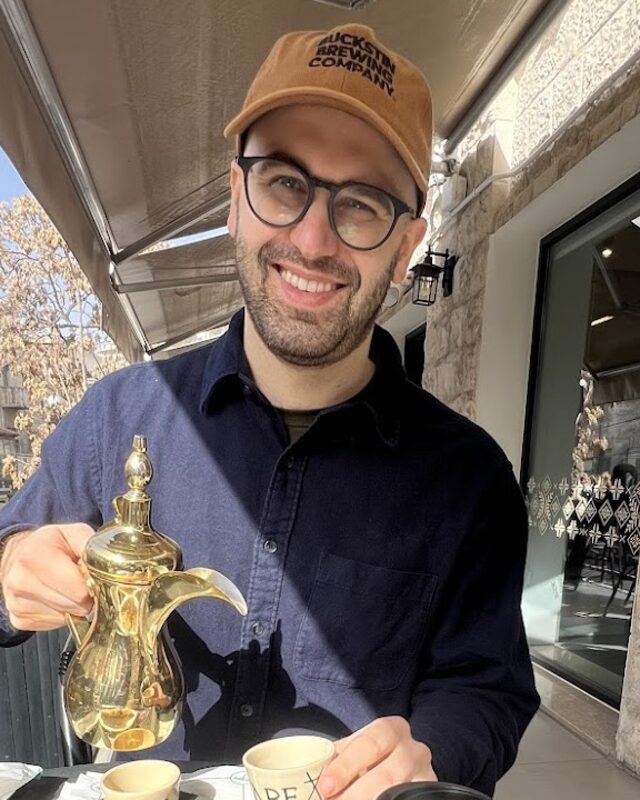
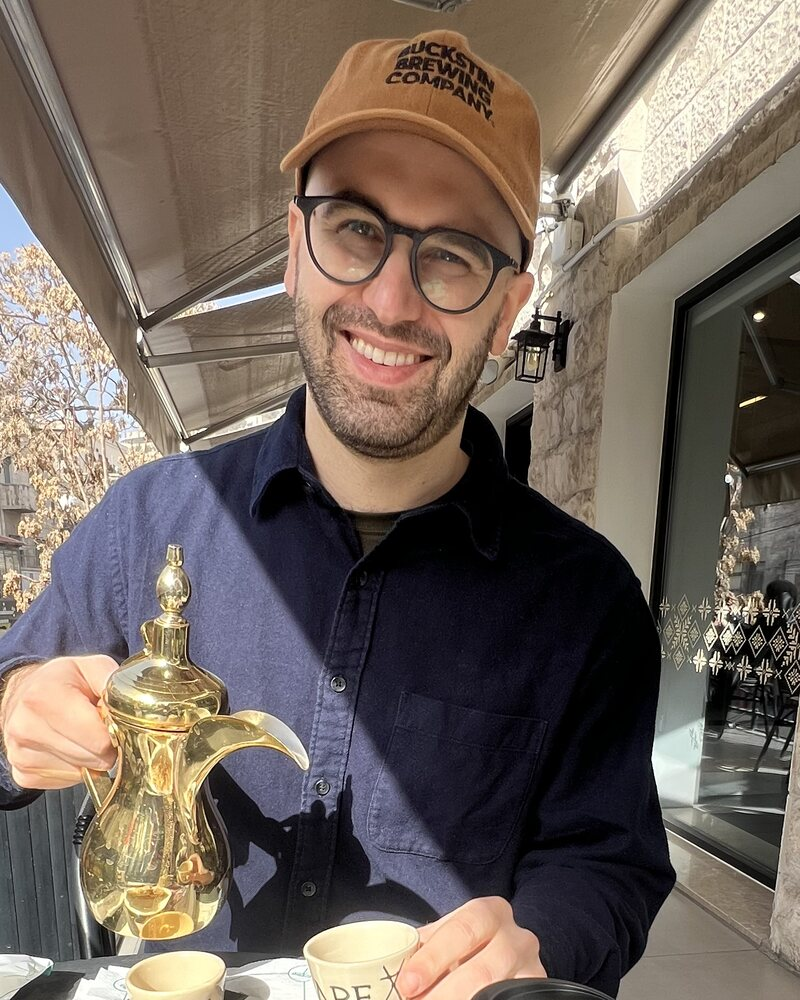
Move About link to the footer; portrait from the original photo
Evan preferred the bio beside Colophon and AI & Authorship in the shared
footer rather than as a front-page section row. Portrait re-cropped from
the original HEIC at 800x1000 with metadata stripped.

Claude-Session: https://claude.ai/code/session_0146eUg9wUdKNCELpyc4T6tb

diff --git a/HANDOFF.md b/HANDOFF.md
@@ -19,8 +19,10 @@ Last updated 2026-09-12 by Claude Fable 5.1.
 - `/about` is live with Evan's three paragraphs (verbatim from his Google Doc
   draft after three review passes), a `Written by Evan` byline, `-Evan` signoff,
   hyperlinks to his papers and the site's projects, and a portrait cropped from
-  a photo in Amman, Jordan (`public/about/evan-amman.jpg`). Front page has a
-  second section row linking to it. Authorship recorded in AGENTS.md.
+  a photo in Amman, Jordan (`public/about/evan-amman.jpg`, from the original
+  HEIC, metadata stripped). Linked from the shared footer beside Colophon and
+  AI & Authorship; Evan chose the footer over a front-page row because the bio
+  is site-level information, not a project. Authorship recorded in AGENTS.md.
 - Not used: the "Bio photo candidates" album headshots; Evan preferred the Amman
   photo for its setting.
 - Mobile layout (portrait centered under 600px) was checked by CSS only; the
